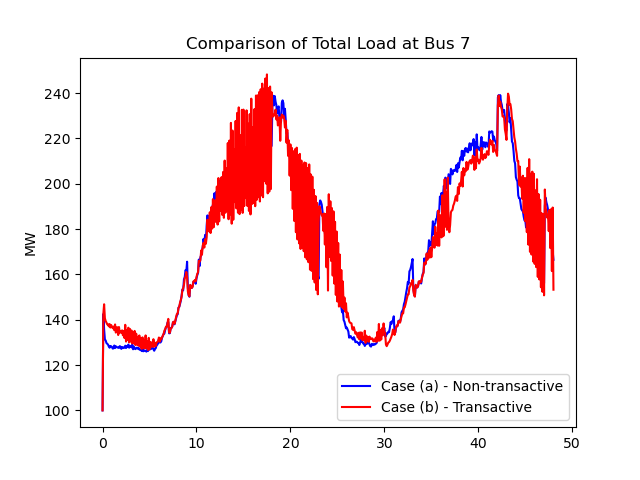
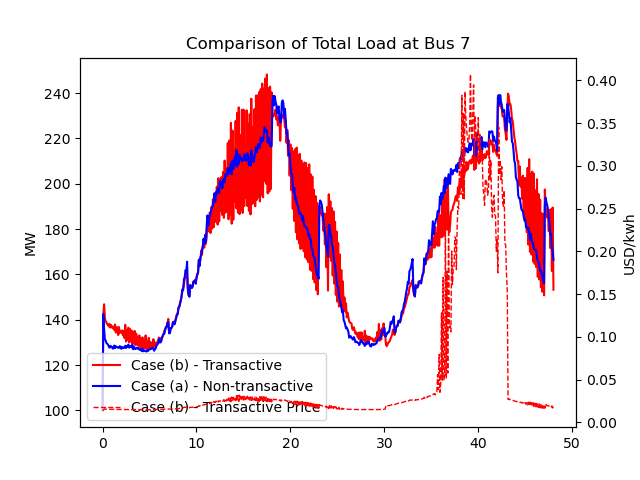
Update price trace in validation graphs

diff --git a/src/tesp_support/tesp_support/validation_plots.py b/src/tesp_support/tesp_support/validation_plots.py
@@ -137,8 +137,8 @@ def load_data():
         data = load_pypower_data(data, case)
 
     # Load GLD data
-    for case in cases:
-        data = load_gld_data(data, case)
+    # for case in cases:
+    #    data = load_gld_data(data, case)
 
     # Load Energy+ data
     for case in cases:
@@ -208,9 +208,9 @@ def plot_transactive_bus_LMP(data):
                 b_idx_b = data['b']['pypower']['idx_b']
 
                 plt.plot(a_hrs, a_data_b[0, :, a_idx_b['LMP_P_IDX']], color='blue',
-                         label='Case (a) - Non-transactive')
+                         label='Case (a) - Non-transactive', linewidth=1)
                 plt.plot(b_hrs, b_data_b[0, :, b_idx_b['LMP_P_IDX']], color='red',
-                         label='Case (b) - Transactive')
+                         label='Case (b) - Transactive', linewidth=1)
                 plt.ylabel(a_idx_b['LMP_P_UNITS'])
                 plt.title('Comparison of Marginal Price at Bus 7')
                 plt.legend(loc='best')
@@ -260,13 +260,22 @@ def plot_transactive_feeder_load(data):
                 b_hrs = data['b']['pypower']['hrs']
                 b_data_b = data['b']['pypower']['data_b']
                 b_idx_b = data['b']['pypower']['idx_b']
-                plt.plot(a_hrs, a_data_b[0, :, a_idx_b['PD_IDX']], color='blue',
-                         label='Case (a) - Non-transactive')
-                plt.plot(b_hrs, b_data_b[0, :, b_idx_b['PD_IDX']], color='red',
-                         label='Case (b) - Transactive')
-                plt.ylabel(a_idx_b['PD_UNITS'])
+                fig, ax = plt.subplots()
+                ax2 = ax.twinx()
+                ln1 = ax.plot(b_hrs, b_data_b[0, :, b_idx_b['PD_IDX']],
+                              color='red', label='Case (b) - Transactive')
+                ln2 = ax.plot(a_hrs, a_data_b[0, :, a_idx_b['PD_IDX']],
+                              color='blue', label='Case (a) - Non-transactive')
+                ln3 = ax2.plot(b_hrs, b_data_b[0, :, b_idx_b['LMP_P_IDX']],
+                               color='red',
+                               label='Case (b) - Transactive Price',
+                               linestyle='dashed', linewidth=1)
+                ax.set_ylabel(a_idx_b['PD_UNITS'])
+                ax2.set_ylabel(b_idx_b['LMP_P_UNITS'])
+                lns = ln1 + ln2 + ln3
+                labels = [l.get_label() for l in lns]
                 plt.title('Comparison of Total Load at Bus 7')
-                plt.legend(loc='best')
+                ax.legend(lns, labels, loc='lower left')
                 plt.show()
                 logger.info('\tCompleted plot_transactive_feeder_load.')
             else:
@@ -421,7 +430,7 @@ def plot_avg_indoor_air_temperature(data):
                                                          'Transactive')
                 ln3 = ax2.plot(bp_hrs, bp_data_b[0, :, bp_idx_b['LMP_P_IDX']],
                         color='red', label='Case (b) - Transactive Price',
-                               linestyle='dashed')
+                               linestyle='dashed', linewidth=1)
                 ax.set_ylabel(a_idx_h['HSE_AIR_AVG_UNITS'])
                 ax2.set_ylabel(bp_idx_b['LMP_P_UNITS'])
                 lns = ln1 + ln2 + ln3
@@ -644,15 +653,15 @@ def plot_energy_plus_indoor_temperature(data):
 
                 fig, ax = plt.subplots()
                 ax2 = ax.twinx()
-                ln1 = ax.plot(a_hrs, a_data[:,a_idx[
-                                                  'COOLING_TEMPERATURE_IDX']],
-                         color='blue', label='Case (a) - Non-transactive')
                 ln2 = ax.plot(b_hrs, b_data[:,b_idx[
                                                   'COOLING_TEMPERATURE_IDX']],
                          color='red', label='Case (b) - Transactive')
+                ln1 = ax.plot(a_hrs, a_data[:,a_idx[
+                                                  'COOLING_TEMPERATURE_IDX']],
+                         color='blue', label='Case (a) - Non-transactive')
                 ln3 = ax2.plot(bp_hrs, bp_data_b[0, :, bp_idx_b['LMP_P_IDX']],
                         color='red', label='Case (b) - Transactive Price',
-                               linestyle='dashed')
+                               linestyle='dashed', linewidth=1)
                 ax.set_ylabel(a_idx['COOLING_TEMPERATURE_UNITS'])
                 ax2.set_ylabel(bp_idx_b['LMP_P_UNITS'])
                 lns = ln1 + ln2 + ln3
